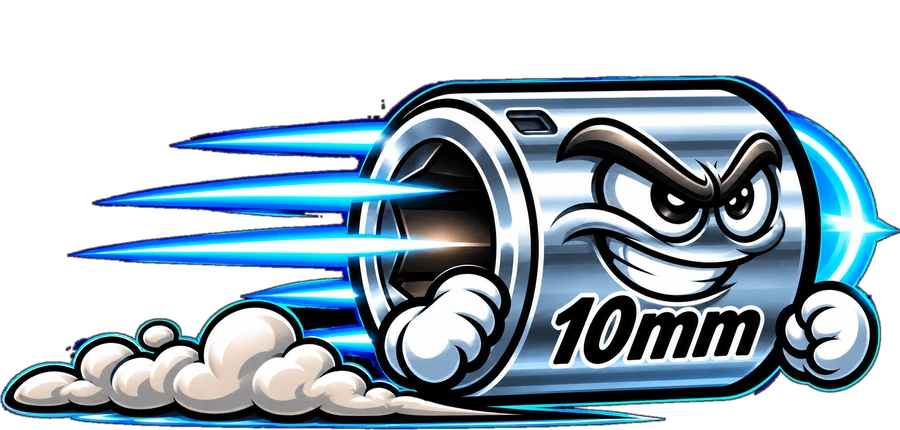
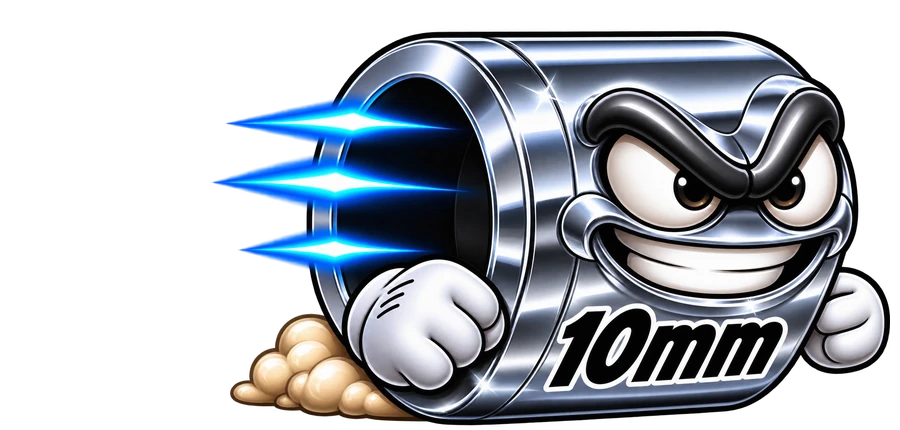
New master Shop Chrome socket art (#122)
Uses the face layout of the newer skins, so face looks and disguises line up.

Claude-Session: https://claude.ai/code/session_01AFKMpnUTsWh7SVsPKKWDr5

diff --git a/index.html b/index.html
@@ -189,7 +189,7 @@ body.one-button #jumpLeft{display:none}body.one-button #pause{grid-area:pause;mi
 .loot-hud span{display:flex;align-items:center;gap:5px}.ico{width:20px;height:20px;flex:none}
 .lvhead{grid-column:1/-1;text-align:left;font-size:12px;font-weight:900;letter-spacing:2px;color:#ffcb43;margin:8px 2px 0}
 .shop{display:none;grid-template-columns:repeat(2,1fr);gap:8px;margin:4px 0 12px;max-height:50dvh;overflow:auto;padding:2px}.shop.on{display:grid}.skin{background:#22323f;border:2px solid #3e5266;border-radius:14px;padding:8px 6px;text-align:center;color:#d4e0e8;font-weight:800;font-size:13px}.skin .tag{display:inline-block;margin-top:4px;background:#e8343e;color:#fff;font-size:10px;font-weight:900;letter-spacing:.5px;padding:2px 7px;border-radius:8px}.skin.eq{border-color:#ffcb43;box-shadow:0 0 0 2px #ffcb4355 inset}.skin img{width:100%;max-width:120px;height:auto;display:block;margin:2px auto 4px}.panel .skin button{min-height:36px;margin:6px 0 0;font-size:13px;padding:0 6px;width:100%}.skin button.own{background:#455b70;color:#fff}.skin button.buy{background:#ffcb43;color:#1a2630}.skin button.no{background:#33424f;color:#8aa0b2}.skin.look img{height:58px;width:auto;max-width:100%;object-fit:contain}.skin .lslot{font-size:10px;font-weight:900;letter-spacing:1px;color:#8aa0b2;margin-top:2px}
-</style></head><body><main><header><h1>WHERE'S MY 10MM?!</h1><small>THE GREAT SOCKET ESCAPE • V20.1</small></header><div class="stats"><div>LEVEL<strong id="level">1 / 200</strong></div><div>DISTANCE<strong id="distance">0%</strong></div><div>BEST<strong id="best">1</strong></div></div><div class="loot-hud"><span><img class="ico" src="coin.webp" alt=""> COINS <b id="coinsCount">0</b></span><span><svg class="ico" viewBox="0 0 24 24"><polygon points="12,1.5 15,8.6 22.7,9.3 16.9,14.4 18.6,22 12,18 5.4,22 7.1,14.4 1.3,9.3 9,8.6" fill="#ffcb43" stroke="#b97a08" stroke-width="1.4" stroke-linejoin="round"/></svg> SCORE <b id="scoreCount">0</b></span></div><div class="speed-meter" aria-label="Speed gained by clearing obstacles"><span>SPEED <b id="speedLabel">1.00×</b></span><div class="speed-track"><div id="speedFill"></div></div></div><section class="stage"><canvas id="scene" width="600" height="610" aria-label="Rolling socket obstacle game"></canvas><p id="tip" aria-live="polite">Tap twice for a double jump. Collect power-ups!</p></section><div class="buttons"><button id="jumpLeft" aria-label="Jump with left hand">JUMP</button><button id="pause" class="secondary">PAUSE</button><button id="restart" class="secondary">RETRY</button><button id="jump" aria-label="Jump with right hand">JUMP</button></div></main><div class="overlay" id="overlay"><div class="panel"><div class="eyebrow" id="eyebrow">THE GREAT SOCKET ESCAPE</div><div class="art" id="menuArt">10mm</div><h2 id="message">WHERE’S MY 10MM?!</h2><p id="details">What if the 10mm socket wasn’t lost… what if it was escaping?</p><div class="opts" id="opts"></div><div class="levels" id="levels"></div><div class="shop" id="shop"></div><button id="go">PLAY ADVENTURE</button><button id="menuExtra" class="sub">HOW TO PLAY</button><button id="menuShop" class="sub">SOCKET SHOP</button><button id="menuLevels" class="sub">LEVEL SELECT</button><button id="menuSettings" class="ghost">SETTINGS</button></div></div><script src="game.js"></script><div id="home" class="hidden"><div class="hbg"></div>
+</style></head><body><main><header><h1>WHERE'S MY 10MM?!</h1><small>THE GREAT SOCKET ESCAPE • V20.2</small></header><div class="stats"><div>LEVEL<strong id="level">1 / 200</strong></div><div>DISTANCE<strong id="distance">0%</strong></div><div>BEST<strong id="best">1</strong></div></div><div class="loot-hud"><span><img class="ico" src="coin.webp" alt=""> COINS <b id="coinsCount">0</b></span><span><svg class="ico" viewBox="0 0 24 24"><polygon points="12,1.5 15,8.6 22.7,9.3 16.9,14.4 18.6,22 12,18 5.4,22 7.1,14.4 1.3,9.3 9,8.6" fill="#ffcb43" stroke="#b97a08" stroke-width="1.4" stroke-linejoin="round"/></svg> SCORE <b id="scoreCount">0</b></span></div><div class="speed-meter" aria-label="Speed gained by clearing obstacles"><span>SPEED <b id="speedLabel">1.00×</b></span><div class="speed-track"><div id="speedFill"></div></div></div><section class="stage"><canvas id="scene" width="600" height="610" aria-label="Rolling socket obstacle game"></canvas><p id="tip" aria-live="polite">Tap twice for a double jump. Collect power-ups!</p></section><div class="buttons"><button id="jumpLeft" aria-label="Jump with left hand">JUMP</button><button id="pause" class="secondary">PAUSE</button><button id="restart" class="secondary">RETRY</button><button id="jump" aria-label="Jump with right hand">JUMP</button></div></main><div class="overlay" id="overlay"><div class="panel"><div class="eyebrow" id="eyebrow">THE GREAT SOCKET ESCAPE</div><div class="art" id="menuArt">10mm</div><h2 id="message">WHERE’S MY 10MM?!</h2><p id="details">What if the 10mm socket wasn’t lost… what if it was escaping?</p><div class="opts" id="opts"></div><div class="levels" id="levels"></div><div class="shop" id="shop"></div><button id="go">PLAY ADVENTURE</button><button id="menuExtra" class="sub">HOW TO PLAY</button><button id="menuShop" class="sub">SOCKET SHOP</button><button id="menuLevels" class="sub">LEVEL SELECT</button><button id="menuSettings" class="ghost">SETTINGS</button></div></div><script src="game.js"></script><div id="home" class="hidden"><div class="hbg"></div>
 <div class="htitle"><b>WHERE'S MY 10MM?!</b><small>THE GREAT SOCKET ESCAPE</small></div>
 <div class="hstage"><img class="hmag" src="chaser-magnet.webp" alt=""><div class="hposter"><span class="pm">MISSING</span><img src="socket-chrome.webp" alt=""><span class="pempty">GONE!</span><span class="p10">10MM</span></div><img class="hfly" src="socket-chrome.webp" alt=""><img class="hhero" id="hHero" src="socket-chrome.webp" alt=""><img class="hglove" src="chaser-glove.webp" alt=""></div>
 <div class="htap" id="hTap">TAP TO START</div><div id="gift" class="hidden"><div class="gcard"><div class="gl">DAILY GIFT</div><img src="coin.webp" alt=""><div class="ga" id="giftAmt">+10 COINS</div><div class="gd" id="giftDay">DAY 1</div><button id="giftClaim">CLAIM</button></div></div>

diff --git a/game.js b/game.js
@@ -3500,7 +3500,7 @@ for (const [k, n, p] of AURA_LIST) LOOKS.push({ id: "aura-" + k, img: "aura-" + 
 // where the face sits on the two families of socket art (900x430 sprites)
 const FACE_A = { body: [610, 240, 430], eyes: [695, 175, 200], mouth: [680, 238, 160], top: [705, 95, 260], side: [835, 215, 200] };
 const FACE_B = { body: [625, 225, 470], eyes: [705, 170, 200], mouth: [700, 280, 170], top: [710, 40, 270], side: [880, 205, 200] };
-const FACE_B_SKINS = new Set("pitcrew goldrush carbon storm camo oldglory flames slime firered haze frost barnfind skull biohazard menace visor checkered trackday galaxy puertorico electric pink royal titanium blueline".split(" "));
+const FACE_B_SKINS = new Set("chrome pitcrew goldrush carbon storm camo oldglory flames slime firered haze frost barnfind skull biohazard menace visor checkered trackday galaxy puertorico electric pink royal titanium blueline".split(" "));
 const LOOK_HEAD = 150, LOOK_FOOT = 100; // extra room above (hats) and below (aura glow)
 const lookImgs = {};
 for (const l of LOOKS) { const im = new Image(); im.src = l.img || "look-" + l.id + ".webp"; lookImgs[l.id] = im; }
